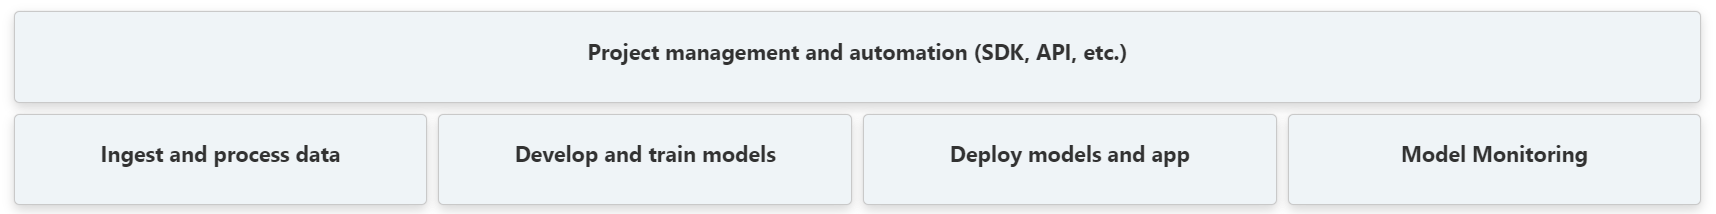
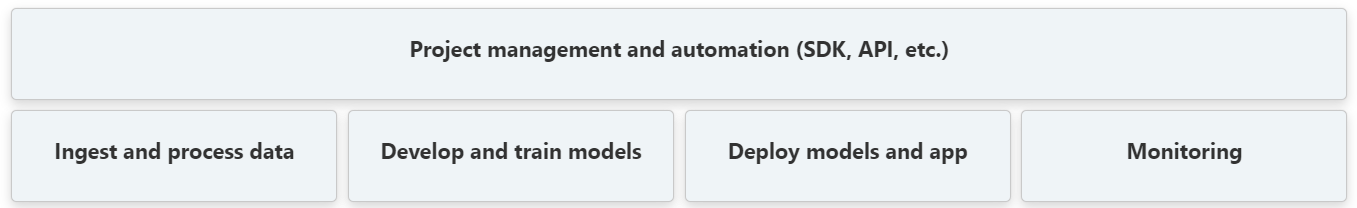
Gilad review

diff --git a/docs/index.md b/docs/index.md
@@ -51,7 +51,7 @@ See the supported data stores, development tools, services, platforms, etc., sup
 :link: ./genai/live-ops/index.html
 ```
 
-```{grid-item-card} Model monitoring
+```{grid-item-card} Monitoring
 :columns: 1 1 2 3
 :text-align: center
 :link: ./concepts/model-monitoring.html
@@ -170,7 +170,7 @@ Collect production data, metadata, and metrics to tune the model and application
 :link: ./deployment/index.html
 ```
 
-```{grid-item-card} Model Monitoring
+```{grid-item-card} Monitoring
 :columns: 3
 :text-align: center
 :link: ./concepts/model-monitoring.html
@@ -311,7 +311,7 @@ MLRun includes the following major components:
 :link: ./serving/serving-graph.html
 ```
 
-```{grid-item-card} Model monitoring
+```{grid-item-card} Monitoring
 :columns: 1 1 2 4
 :text-align: center
 :link: ./concepts/model-monitoring.html

diff --git a/docs/resources.md b/docs/resources.md
@@ -9,11 +9,7 @@ Familiarize yourself with the resources that can help you in your MLRun journey.
 
 ## Slack
 
-The [MLOps Live Slack](https://mlopslive.slack.com) has numerous channels for discussion and announcements.
-
-## Support
-
-The [support team](mailto:support@iguazio.com) is just an email away.
+The [MLOps Live Slack](https://mlopslive.slack.com) has numerous channels for discussion, announcements, and community support.
 
 ## Release states
 
